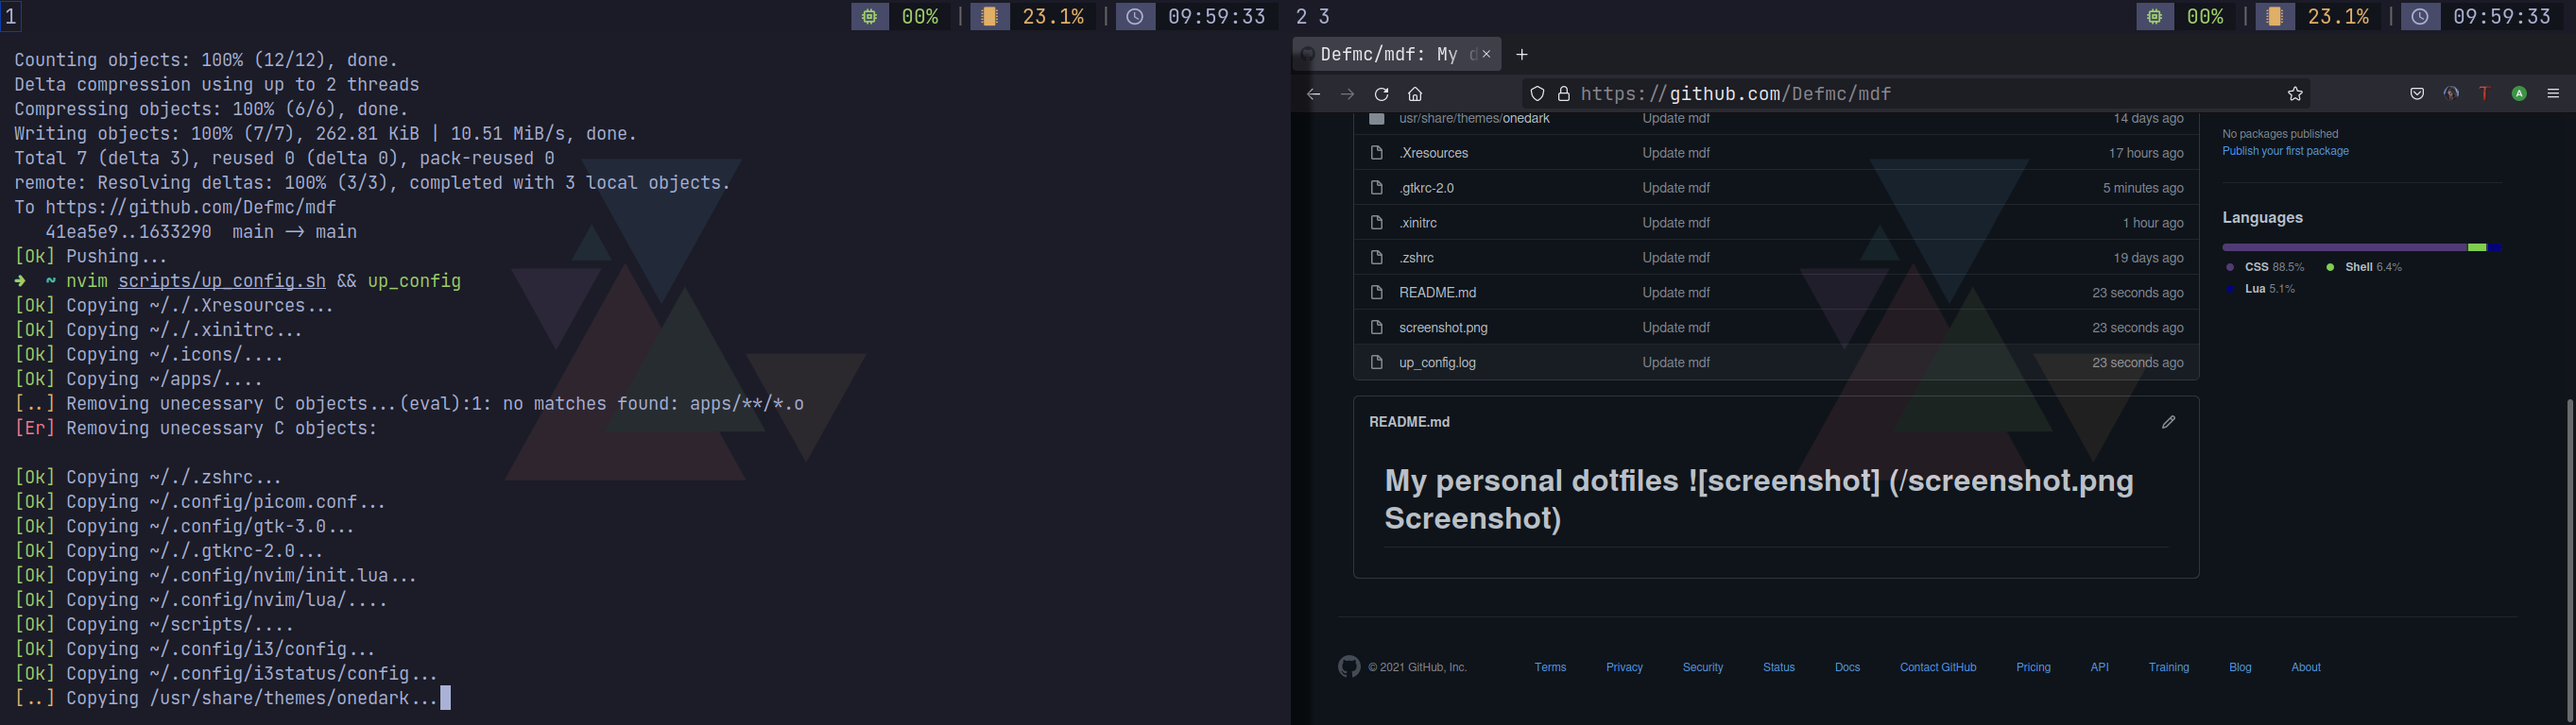
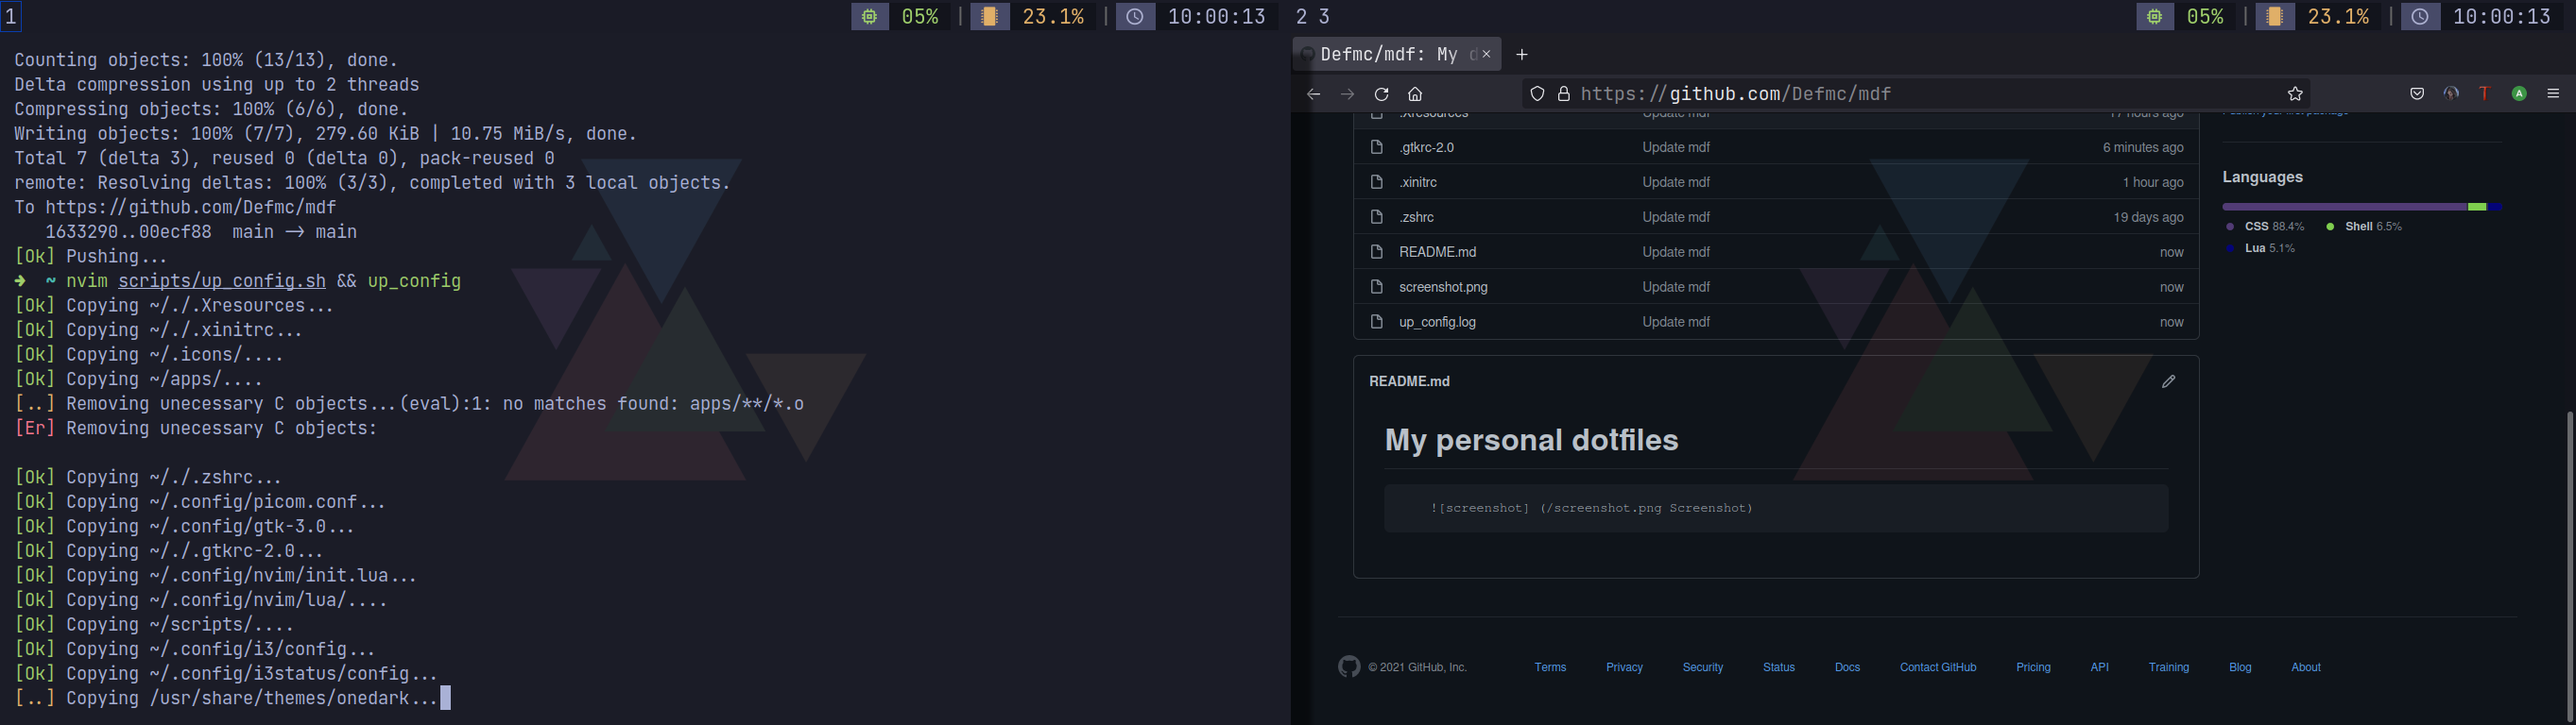
Update mdf

diff --git a/README.md b/README.md
@@ -1,2 +1,3 @@
 # My personal dotfiles
-        ![screenshot] (/screenshot.png Screenshot)
+\
+        ![screenshot] (/screenshot.png "Screenshot")
